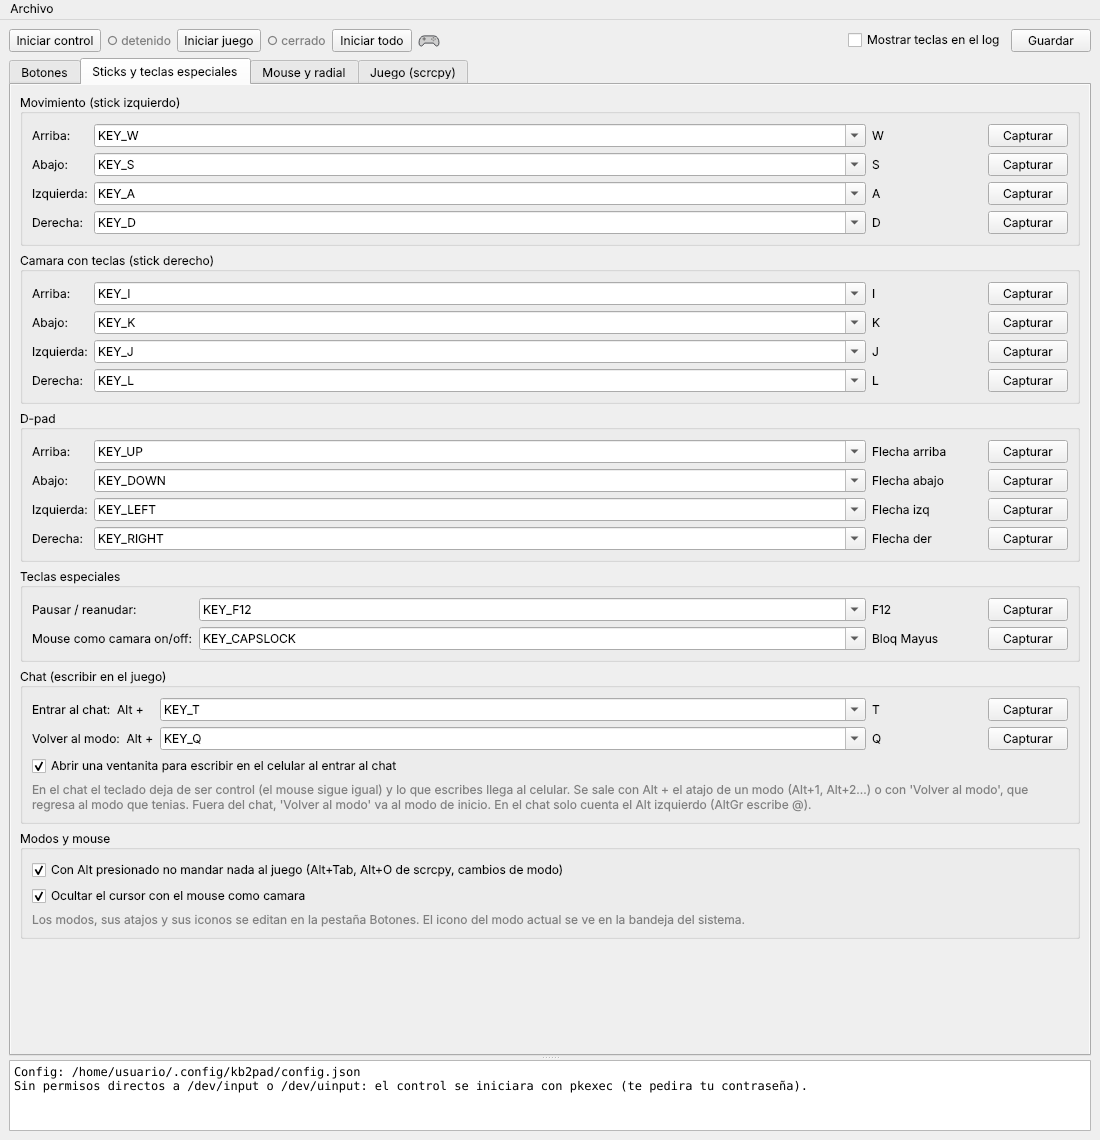
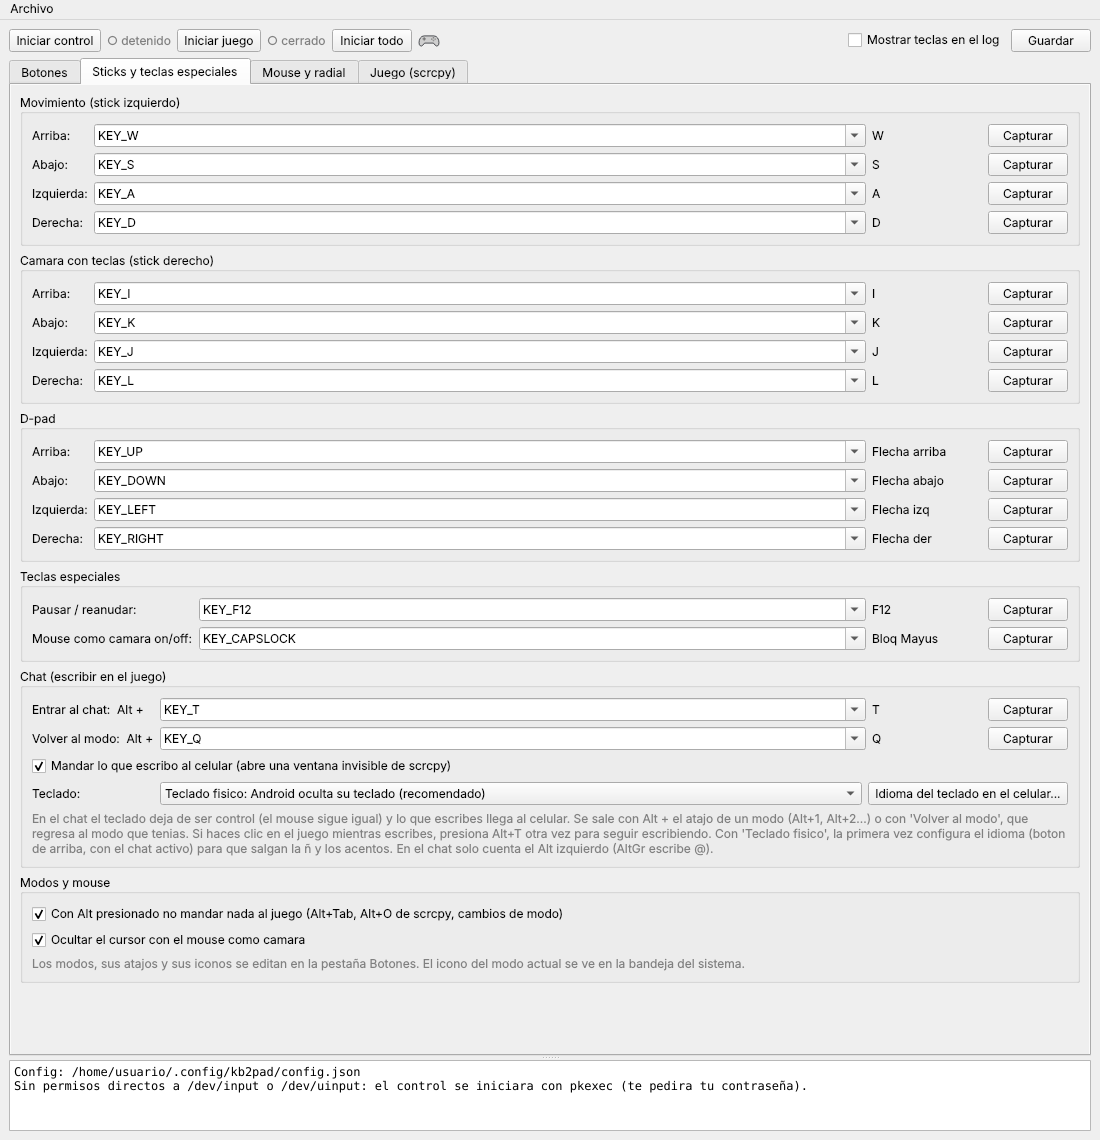
v0.2.1: el chat escribe como teclado fisico y Android ya no muestra su teclado
- La conexion del chat usa --keyboard=uhid: Android la ve como teclado fisico y oculta el teclado
  en pantalla (opcion para volver al teclado del celular).
- La ventanita del chat es de 8x8, sin bordes y transparente (WS_EX_LAYERED en Windows,
  _NET_WM_WINDOW_OPACITY en X11); solo recibe el teclado.
- Alt+T con el chat activo le regresa el foco (por si hiciste clic en el juego).
- Boton para abrir Ajustes > Teclado fisico en el celular y elegir el idioma (ñ y acentos).

Claude-Session: https://claude.ai/code/session_01Cy8nJGRSEieek9NBRKBXGJ

Changed region(s): [[0.0309, 0.6447, 0.9582, 0.8596], [0.5564, 0.7982, 0.68, 0.8596]]

diff --git a/app.py b/app.py
@@ -672,6 +672,7 @@ class BindingsTab(QWidget):
 
 class SticksTab(QWidget):
     changed = pyqtSignal()
+    keyboard_settings = pyqtSignal()
     DIRS = ("Arriba", "Abajo", "Izquierda", "Derecha")
 
     def __init__(self, parent=None):
@@ -706,17 +707,31 @@ class SticksTab(QWidget):
         form = QFormLayout(box)
         self.chat = KeyField(allow_empty=True)
         self.mode_back = KeyField(allow_empty=True)
-        self.chat_window = QCheckBox("Abrir una ventanita para escribir en el celular al entrar al chat")
+        self.chat_window = QCheckBox("Mandar lo que escribo al celular (abre una ventana invisible de scrcpy)")
+        self.chat_keyboard = QComboBox()
+        for key, label in C.CHAT_KEYBOARDS.items():
+            self.chat_keyboard.addItem(label, key)
+        kb_layout = QPushButton("Idioma del teclado en el celular...")
+        kb_layout.setToolTip("Abre en el celular Ajustes > Teclado fisico. Hazlo con el chat activo (Alt+T) "
+                             "y elige el teclado 'scrcpy' > Español (Latinoamerica) o el de tu teclado.")
+        kb_layout.clicked.connect(self.keyboard_settings.emit)
         for f in (self.chat, self.mode_back):
             f.changed.connect(self.changed.emit)
         self.chat_window.toggled.connect(self.changed.emit)
+        self.chat_keyboard.currentIndexChanged.connect(self.changed.emit)
         form.addRow("Entrar al chat:  Alt +", self.chat)
         form.addRow("Volver al modo:  Alt +", self.mode_back)
         form.addRow(self.chat_window)
+        row = QHBoxLayout()
+        row.addWidget(self.chat_keyboard, 1)
+        row.addWidget(kb_layout)
+        form.addRow("Teclado:", row)
         hint = QLabel("En el chat el teclado deja de ser control (el mouse sigue igual) y lo que escribes "
                       "llega al celular. Se sale con Alt + el atajo de un modo (Alt+1, Alt+2...) o con "
-                      "'Volver al modo', que regresa al modo que tenias. Fuera del chat, 'Volver al modo' "
-                      "va al modo de inicio. En el chat solo cuenta el Alt izquierdo (AltGr escribe @).")
+                      "'Volver al modo', que regresa al modo que tenias. Si haces clic en el juego mientras "
+                      "escribes, presiona Alt+T otra vez para seguir escribiendo. Con 'Teclado fisico', la "
+                      "primera vez configura el idioma (boton de arriba, con el chat activo) para que salgan "
+                      "la ñ y los acentos. En el chat solo cuenta el Alt izquierdo (AltGr escribe @).")
         hint.setWordWrap(True)
         hint.setStyleSheet("color: gray;")
         form.addRow(hint)
@@ -749,6 +764,7 @@ class SticksTab(QWidget):
         self.chat.set_value(sp.get("chat", ""))
         self.mode_back.set_value(sp.get("mode_back", ""))
         self.chat_window.setChecked(bool(sp.get("chat_window", True)))
+        self.chat_keyboard.setCurrentIndex(max(0, self.chat_keyboard.findData(sp.get("chat_keyboard", "uhid"))))
 
     def store(self, cfg):
         for key, fs in self.fields.items():
@@ -760,6 +776,7 @@ class SticksTab(QWidget):
         cfg["special"]["chat"] = self.chat.value()
         cfg["special"]["mode_back"] = self.mode_back.value()
         cfg["special"]["chat_window"] = self.chat_window.isChecked()
+        cfg["special"]["chat_keyboard"] = self.chat_keyboard.currentData() or "uhid"
 
 
 def _dspin(lo, hi, step, decimals=2, suffix=""):
@@ -1573,6 +1590,7 @@ class MainWindow(QMainWindow):
         for t in (self.t_bind, self.t_sticks, self.t_mouse, self.t_scrcpy):
             t.changed.connect(self.mark_dirty)
         self.t_scrcpy.log.connect(self.append_log)
+        self.t_sticks.keyboard_settings.connect(self.open_keyboard_settings)
 
         self.logbox = QPlainTextEdit()
         self.logbox.setReadOnly(True)
@@ -2108,29 +2126,52 @@ class MainWindow(QMainWindow):
             self.append_log("[chat] el teclado ya no es control; abre el juego para escribir en el celular")
             return
         if self.chat_proc.state() != QProcess.ProcessState.NotRunning:
+            self._refocus_chat()                   # Alt+T otra vez: seguir escribiendo
             return
         gx, gy, gw, gh = (PT.window_geometry(self.geo_wid) if self.geo_wid else None) or self._screen_rect()
-        cw, ch = min(720, max(360, gw // 2)), 110
-        window = (gx + (gw - cw) // 2, gy + gh - ch - max(40, gh // 8), cw, ch)
-        cmd = C.build_chat_cmd(sc, window)
+        window = (gx + gw - 8, gy + gh - 8, 8, 8)    # diminuta en la esquina; ademas se vuelve transparente
+        cmd = C.build_chat_cmd(sc, window, self.cfg["special"].get("chat_keyboard", "uhid"))
         env = QProcessEnvironment.systemEnvironment()
         for k, v in C.scrcpy_env_overrides(sc).items():
             env.insert(k, v)
         self.chat_proc.setProcessEnvironment(env)
-        self.append_log("[chat] abriendo ventana para escribir (Alt+1/2/3 o Alt+Q para volver)")
+        self.append_log("[chat] escribiendo en el celular (Alt+1/2/3 o Alt+Q para volver)")
         self.chat_proc.start(cmd[0], cmd[1:])
         self.chat_focus_until = time.monotonic() + 6
         self.chat_focus.start()
 
     def _chat_focus_tick(self):
         """Espera a que aparezca la ventanita del chat y le da el foco para escribir de inmediato."""
-        pid = self.chat_proc.processId()
-        wid = PT.find_window(pid) if pid else None
+        wid = self._chat_window()
         if wid is not None:
             self.chat_focus.stop()
+            PT.set_window_opacity(wid, 0.0)
             QTimer.singleShot(150, lambda: PT.focus_window(wid))
-        elif time.monotonic() > self.chat_focus_until or not pid:
+        elif time.monotonic() > self.chat_focus_until or not self.chat_proc.processId():
             self.chat_focus.stop()
+
+    def _chat_window(self):
+        pid = self.chat_proc.processId()
+        return PT.find_window(pid, min_size=1) if pid else None
+
+    def _refocus_chat(self):
+        wid = self._chat_window()
+        if wid is not None:
+            PT.focus_window(wid)
+
+    def open_keyboard_settings(self):
+        """Ajustes > Teclado fisico en el celular (para elegir el idioma del teclado 'scrcpy')."""
+        sc = self.collect()["scrcpy"]
+        if not C.tool_exists(sc, "adb"):
+            QMessageBox.warning(self, "adb", "No encontre adb.")
+            return
+        if self.chat_proc.state() == QProcess.ProcessState.NotRunning:
+            QMessageBox.information(self, "Teclado", "Primero entra al chat con Alt+T (con el juego abierto): "
+                                    "el teclado 'scrcpy' solo aparece en el celular mientras el chat esta activo.")
+        PT.spawn(PT.adb_cmd(C.tool_path(sc, "adb"), C.effective_serial(sc), "shell", "am", "start",
+                            "-a", "android.settings.HARD_KEYBOARD_SETTINGS"))
+        self.append_log("[chat] abriendo Ajustes > Teclado fisico en el celular: elige 'scrcpy' y el idioma "
+                        "de tu teclado (ej. Español (Latinoamerica))")
 
     def _close_chat(self, refocus=False):
         self.chat_focus.stop()

diff --git a/platform_tools.py b/platform_tools.py
@@ -165,6 +165,10 @@ if IS_WINDOWS:
     _u32.IsIconic.argtypes = (W.HWND,)
     _u32.ShowWindow.argtypes = (W.HWND, ctypes.c_int)
     _k32 = ctypes.WinDLL("kernel32", use_last_error=True)
+    _u32.GetWindowLongW.argtypes = (W.HWND, ctypes.c_int)
+    _u32.GetWindowLongW.restype = ctypes.c_long
+    _u32.SetWindowLongW.argtypes = (W.HWND, ctypes.c_int, ctypes.c_long)
+    _u32.SetLayeredWindowAttributes.argtypes = (W.HWND, W.DWORD, ctypes.c_ubyte, W.DWORD)
     SWP_NOZORDER, SWP_NOACTIVATE = 0x0004, 0x0010
 
     class _DpiUnaware:
@@ -191,7 +195,7 @@ if IS_WINDOWS:
             return None
         return r.left, r.top, r.right - r.left, r.bottom - r.top
 
-    def find_window(pid):
+    def find_window(pid, min_size=100):
         found = []
 
         def cb(hwnd, _lparam):
@@ -199,7 +203,7 @@ if IS_WINDOWS:
             _u32.GetWindowThreadProcessId(hwnd, ctypes.byref(p))
             if p.value == pid and _u32.IsWindowVisible(hwnd):
                 g = _rect(hwnd)
-                if g and g[2] > 100 and g[3] > 100:
+                if g and g[2] >= min_size and g[3] >= min_size:
                     found.append((g[2] * g[3], hwnd))
             return True
 
@@ -216,6 +220,14 @@ if IS_WINDOWS:
     def set_window_geometry(wid, x, y, w, h):
         with _DpiUnaware():
             _u32.SetWindowPos(wid, None, int(x), int(y), int(w), int(h), SWP_NOZORDER | SWP_NOACTIVATE)
+
+    def set_window_opacity(wid, value):
+        """0.0 = invisible (sigue pudiendo tener el foco del teclado), 1.0 = normal."""
+        if not wid or not _u32.IsWindow(wid):
+            return False
+        ex = _u32.GetWindowLongW(wid, -20)                       # GWL_EXSTYLE
+        _u32.SetWindowLongW(wid, -20, ex | 0x00080000)            # WS_EX_LAYERED
+        return bool(_u32.SetLayeredWindowAttributes(wid, 0, max(1, min(255, int(value * 255))), 2))
 
     def focus_window(wid):
         """Trae la ventana al frente con el foco del teclado (Windows no deja si no 'le toca':
@@ -247,13 +259,15 @@ else:
         except KeyError:
             return None
 
-    def find_window(pid):
+    def find_window(pid, min_size=100):
         best = None
-        for line in _xdotool("search", "--pid", str(pid)).split():
+        # ventanas chicas (el chat): solo las visibles, SDL tiene ventanas auxiliares sin mapear
+        extra = ["--onlyvisible"] if min_size < 100 else []
+        for line in _xdotool("search", *extra, "--pid", str(pid)).split():
             if not line.isdigit():
                 continue
             g = window_geometry(line)
-            if g and g[2] > 100 and g[3] > 100:
+            if g and g[2] >= min_size and g[3] >= min_size:
                 if best is None or g[2] * g[3] > best[1]:
                     best = (line, g[2] * g[3])
         return best[0] if best else None
@@ -266,4 +280,33 @@ else:
         if not wid or not shutil.which("xdotool"):
             return False
         _xdotool("windowactivate", str(wid))
+        return True
+
+    def set_window_opacity(wid, value):
+        """_NET_WM_WINDOW_OPACITY (KWin y otros compositores) con libX11 por ctypes."""
+        if not wid:
+            return False
+        import ctypes
+        import ctypes.util
+        try:
+            x11 = ctypes.CDLL(ctypes.util.find_library("X11") or "libX11.so.6")
+        except OSError:
+            return False
+        x11.XOpenDisplay.restype = ctypes.c_void_p
+        x11.XOpenDisplay.argtypes = (ctypes.c_char_p,)
+        x11.XInternAtom.restype = ctypes.c_ulong
+        x11.XInternAtom.argtypes = (ctypes.c_void_p, ctypes.c_char_p, ctypes.c_int)
+        x11.XChangeProperty.argtypes = (ctypes.c_void_p, ctypes.c_ulong, ctypes.c_ulong, ctypes.c_ulong,
+                                        ctypes.c_int, ctypes.c_int, ctypes.c_void_p, ctypes.c_int)
+        x11.XFlush.argtypes = x11.XCloseDisplay.argtypes = (ctypes.c_void_p,)
+        dpy = x11.XOpenDisplay(None)
+        if not dpy:
+            return False
+        try:
+            atom = x11.XInternAtom(dpy, b"_NET_WM_WINDOW_OPACITY", 0)
+            val = ctypes.c_ulong(max(1, int(value * 0xFFFFFFFF)))   # formato 32 = long en Xlib
+            x11.XChangeProperty(dpy, int(wid), atom, 6, 32, 0, ctypes.byref(val), 1)   # CARDINAL, Replace
+            x11.XFlush(dpy)
+        finally:
+            x11.XCloseDisplay(dpy)
         return True

diff --git a/config.py b/config.py
@@ -17,7 +17,7 @@ from keycodes import e
 
 IS_WINDOWS = os.name == "nt"
 APP_NAME = "kb2pad-dock"
-APP_VERSION = "0.2.0"
+APP_VERSION = "0.2.1"
 
 if IS_WINDOWS:
     CONFIG_DIR = Path(os.environ.get("APPDATA") or Path.home()) / "kb2pad"
@@ -247,7 +247,8 @@ DEFAULT_CONFIG = {
         "hide_cursor": True,         # ocultar el cursor con el mouse como camara
         "chat": "KEY_T",             # Alt + T: modo chat (el teclado deja de ser control)
         "mode_back": "KEY_Q",        # Alt + Q: sale del chat al modo que tenias (fuera del chat: modo de inicio)
-        "chat_window": True,         # al entrar al chat abre una ventanita de scrcpy para escribir
+        "chat_window": True,         # al entrar al chat abre una ventanita (invisible) de scrcpy para escribir
+        "chat_keyboard": "uhid",     # uhid = teclado fisico (Android oculta su teclado); sdk = teclado del cel
     },
     "sticks": {   # (arriba, abajo, izquierda, derecha)
         "move": ["KEY_W", "KEY_S", "KEY_A", "KEY_D"],
@@ -616,17 +617,21 @@ def build_scrcpy_cmd(sc, window=None, version=None):
     return cmd + extra
 
 
-CHAT_TITLE = "kb2pad - chat (escribe aqui; Alt+1/2/3 o Alt+Q para volver al juego)"
+CHAT_TITLE = "kb2pad-chat"
+CHAT_KEYBOARDS = {"uhid": "Teclado fisico: Android oculta su teclado (recomendado)",
+                  "sdk": "Teclado del celular en pantalla"}
 
 
-def build_chat_cmd(sc, window=None):
-    """Segunda ventana de scrcpy solo con teclado (sin video ni audio) para escribir en el chat."""
+def build_chat_cmd(sc, window=None, keyboard="uhid"):
+    """Segunda ventana de scrcpy solo con teclado (sin video ni audio) para escribir en el chat.
+    La ventana es diminuta y la GUI la vuelve transparente: solo esta para recibir el teclado."""
     cmd = [tool_path(sc, "scrcpy")]
     serial = effective_serial(sc)
     if serial:
         cmd += ["-s", serial]
-    cmd += ["--no-video", "--no-audio", "--keyboard=sdk", "--mouse=disabled",
-            "--always-on-top", f"--window-title={CHAT_TITLE}"]
+    keyboard = keyboard if keyboard in CHAT_KEYBOARDS else "uhid"
+    cmd += ["--no-video", "--no-audio", f"--keyboard={keyboard}", "--mouse=disabled",
+            "--window-borderless", "--always-on-top", f"--window-title={CHAT_TITLE}"]
     if window is not None:
         x, y, w, h = (int(v) for v in window)
         cmd += [f"--window-x={x}", f"--window-y={y}", f"--window-width={w}", f"--window-height={h}"]

diff --git a/core.py b/core.py
@@ -434,7 +434,10 @@ class Mapper:
         if ev.value == 1 and ev.code not in cfg.alt_keys and any(a in self.pressed for a in alts):
             if ev.code == cfg.chat_key:
                 self.consumed.add(ev.code)
-                self.set_chat(not self.chat)
+                if self.chat:
+                    log("Chat: ON")        # ya estaba: la GUI le regresa el foco a la ventanita
+                else:
+                    self.set_chat(True)
                 return
             if ev.code == cfg.back_key:
                 self.consumed.add(ev.code)

diff --git a/docs/guia-windows.md b/docs/guia-windows.md
@@ -32,7 +32,7 @@ carga) y un juego que acepte control.
 
 1. **Descarga kb2pad-dock.**
    En [Releases](https://github.com/cHeRaZ-edu/kb2pad-dock/releases) baja
-   `kb2pad-dock-v0.2.0-windows-x64.zip` y **descomprímelo** (por ejemplo en `C:\kb2pad-dock`).
+   `kb2pad-dock-v0.2.1-windows-x64.zip` y **descomprímelo** (por ejemplo en `C:\kb2pad-dock`).
    No lo abras desde dentro del zip.
 2. **Descarga scrcpy.**
    En [scrcpy Releases](https://github.com/Genymobile/scrcpy/releases) baja el zip
@@ -83,10 +83,14 @@ Cualquier cambio que guardes se aplica al momento, aunque el control esté corri
 4. **F12** pausa kb2pad. Úsalo cuando vayas a escribir en otra ventana, porque kb2pad lee el
    teclado aunque la ventana del juego no tenga el foco. `Alt + Tab` no manda nada al juego.
 5. **Chat**: abre el chat en el juego y presiona **Alt + T**. El icono de la bandeja cambia a un
-   teclado y se abre una ventanita *kb2pad - chat*: lo que escribes ahí llega al celular (con
-   acentos y `ñ`) y las letras ya no disparan botones; el mouse sigue funcionando. Para volver:
-   **Alt + 1/2/3** o **Alt + Q** (regresa al modo que tenías). Si la ventanita no toma el foco
-   sola, haz clic en ella. En el chat solo cuenta el Alt izquierdo (`AltGr + Q` escribe `@`).
+   teclado: lo que escribes llega al celular y las letras ya no disparan botones; el mouse sigue
+   funcionando. Android no saca su teclado en pantalla porque kb2pad se conecta como teclado
+   físico. Para volver: **Alt + 1/2/3** o **Alt + Q** (regresa al modo que tenías).
+   - **La primera vez**, con el chat activo, pulsa **Idioma del teclado en el celular...** en
+     *Sticks y teclas especiales* y en el celular elige el teclado **scrcpy** → *Español
+     (Latinoamérica)*, para que salgan la `ñ` y los acentos.
+   - Si haces clic en el juego mientras escribes, presiona **Alt + T** otra vez para seguir.
+   - En el chat solo cuenta el Alt izquierdo (`AltGr + Q` escribe `@`).
 
 **Modos por arma**: cambia en plena partida con **Alt + 1** (Espada), **Alt + 2** (Ballesta)
 o **Alt + 3** (Arco). El icono del modo actual (espada, ballesta o arco) se ve en la bandeja del
@@ -151,7 +155,8 @@ Windows pregunta por el firewall al conectar, permite el acceso a `adb.exe` en r
 | El log de scrcpy dice `INJECT_EVENTS` | Xiaomi/POCO/Redmi: activa *Depuración USB (Configuración de seguridad)* y reinicia el celular. |
 | El juego no reacciona al teclado | Revisa que el control esté **activo** (no en pausa con F12) y que el juego muestre íconos de control. scrcpy debe ser 2.7 o más reciente. |
 | Los botones laterales del mouse no hacen nada | Activa *Mostrar teclas en el log*, presiónalos y mira qué código aparece. Asígnalo en la pestaña Botones con *Capturar*. |
-| Con Alt + T no se abre la ventanita del chat | Tiene que estar abierta la ventana del juego. Revisa que *Abrir una ventanita para escribir* esté activado en *Sticks y teclas especiales*. |
+| En el chat no se escribe nada | Tiene que estar abierta la ventana del juego y activado *Mandar lo que escribo al celular* en *Sticks y teclas especiales*. Si hiciste clic en el juego, presiona Alt + T otra vez. |
+| En el chat salen símbolos en vez de `ñ` o acentos | Falta el idioma del teclado *scrcpy* en el celular: botón *Idioma del teclado en el celular...* con el chat activo. |
 | En red no conecta | Celular y PC en la misma red. Si el celular se reinició, conecta el cable y usa *Activar red con el cable* otra vez. |
 | La ventana no queda donde esperas | Si tu Windows tiene escalado distinto de 100 %, ajusta X, Y, Ancho y Alto a mano en la pestaña Juego. |
 | SmartScreen o el antivirus bloquean `kb2pad.exe` | El `.exe` no está firmado y usa hooks de teclado para leer las teclas. Puedes revisar el código en este repo o compilarlo tú mismo (ver el README). |

diff --git a/docs/guia-linux.md b/docs/guia-linux.md
@@ -45,10 +45,10 @@ control.
 
 2. **Descarga kb2pad-dock.**
    En [Releases](https://github.com/cHeRaZ-edu/kb2pad-dock/releases) baja
-   `kb2pad-dock-v0.2.0-linux.tar.gz` y descomprímelo:
+   `kb2pad-dock-v0.2.1-linux.tar.gz` y descomprímelo:
    ```fish
    mkdir -p ~/Apps
-   tar xzf ~/Descargas/kb2pad-dock-v0.2.0-linux.tar.gz -C ~/Apps
+   tar xzf ~/Descargas/kb2pad-dock-v0.2.1-linux.tar.gz -C ~/Apps
    ```
    O clona el repo:
    ```fish
@@ -116,10 +116,14 @@ puedes editar `~/.config/kb2pad/config.json` a mano: el control detecta el cambi
    teclado aunque la ventana del juego no tenga el foco. `Alt + Tab` no manda nada al juego.
 
 5. **Chat**: abre el chat en el juego y presiona **Alt + T**. El icono de la bandeja cambia a un
-   teclado y se abre una ventanita *kb2pad - chat*: lo que escribes ahí llega al celular (con
-   acentos y `ñ`) y las letras ya no disparan botones; el mouse sigue funcionando. Para volver:
-   **Alt + 1/2/3** o **Alt + Q** (regresa al modo que tenías). Si la ventanita no toma el foco
-   sola, haz clic en ella. En el chat solo cuenta el Alt izquierdo (`AltGr + Q` escribe `@`).
+   teclado: lo que escribes llega al celular y las letras ya no disparan botones; el mouse sigue
+   funcionando. Android no saca su teclado en pantalla porque kb2pad se conecta como teclado
+   físico. Para volver: **Alt + 1/2/3** o **Alt + Q** (regresa al modo que tenías).
+   - **La primera vez**, con el chat activo, pulsa **Idioma del teclado en el celular...** en
+     *Sticks y teclas especiales* y en el celular elige el teclado **scrcpy** → *Español
+     (Latinoamérica)*, para que salgan la `ñ` y los acentos.
+   - Si haces clic en el juego mientras escribes, presiona **Alt + T** otra vez para seguir.
+   - En el chat solo cuenta el Alt izquierdo (`AltGr + Q` escribe `@`).
 
 **Wayland:** para poder acomodar la ventana, la app abre scrcpy con X11 (XWayland) mientras *Al
 pasar a horizontal* no esté en *No tocar la ventana*. Necesitas `xdotool`. Si aun así no respeta
@@ -202,5 +206,6 @@ sudo python ~/Apps/kb2pad-dock/engine.py --config ~/.config/kb2pad/config.json -
 | El juego no reacciona al teclado | Revisa que el control esté **activo** (no en pausa con F12) y que el juego muestre íconos de control. scrcpy debe ser 2.7 o más reciente. |
 | Los botones laterales del mouse no hacen nada | Activa *Mostrar teclas en el log*, presiónalos y mira qué código aparece. Asígnalo en la pestaña Botones con *Capturar*. |
 | "No encontré la ventana de scrcpy" en el log | Instala `xdotool` y, en Wayland, activa *Forzar X11*. |
-| Con Alt + T no se abre la ventanita del chat | Tiene que estar abierta la ventana del juego. Revisa que *Abrir una ventanita para escribir* esté activado en *Sticks y teclas especiales*. |
+| En el chat no se escribe nada | Tiene que estar abierta la ventana del juego y activado *Mandar lo que escribo al celular* en *Sticks y teclas especiales*. Si hiciste clic en el juego, presiona Alt + T otra vez. |
+| En el chat salen símbolos en vez de `ñ` o acentos | Falta el idioma del teclado *scrcpy* en el celular: botón *Idioma del teclado en el celular...* con el chat activo. |
 | En red no conecta | Celular y PC en la misma red. Si el celular se reinició, conecta el cable y usa *Activar red con el cable* otra vez. |

diff --git a/README.md b/README.md
@@ -100,8 +100,8 @@ En **[Releases](https://github.com/cHeRaZ-edu/kb2pad-dock/releases)**:
 
 | Archivo | Para |
 |---|---|
-| `kb2pad-dock-v0.2.0-windows-x64.zip` | Windows 10/11 de 64 bits: trae `kb2pad.exe`, no necesitas Python |
-| `kb2pad-dock-v0.2.0-linux.tar.gz` | Linux: el código, se corre con Python |
+| `kb2pad-dock-v0.2.1-windows-x64.zip` | Windows 10/11 de 64 bits: trae `kb2pad.exe`, no necesitas Python |
+| `kb2pad-dock-v0.2.1-linux.tar.gz` | Linux: el código, se corre con Python |
 
 ## Guías paso a paso
 
@@ -188,14 +188,21 @@ valores por defecto (las teclas que no se usan en combate son iguales en las tre
 Para escribir en el chat del juego sin que las letras disparen botones:
 
 1. Abre el chat en el juego (con el mouse o con su botón).
-2. Presiona **`Alt + T`**. El icono de la bandeja cambia a un **teclado** y se abre una ventanita
-   de scrcpy con el título *kb2pad - chat*: lo que escribes ahí llega al celular (acentos y `ñ`
-   incluidos). El mouse sigue funcionando como control.
-3. Para volver a jugar: **`Alt + 1/2/3`** (ese modo) o **`Alt + Q`** (el modo que tenías). La
-   ventanita se cierra sola.
+2. Presiona **`Alt + T`**. El icono de la bandeja cambia a un **teclado** y lo que escribes llega
+   al celular. El mouse sigue funcionando como control.
+3. Para volver a jugar: **`Alt + 1/2/3`** (ese modo) o **`Alt + Q`** (el modo que tenías).
 
-En el chat solo cuenta el **Alt izquierdo**, porque `AltGr + Q` escribe `@`. Los atajos se cambian
-en *Sticks y teclas especiales*.
+Por dentro, kb2pad abre una segunda conexión de scrcpy, solo de teclado, en una ventana invisible
+que toma el foco. Esa conexión se presenta en el celular como un **teclado físico**, así que
+Android **no muestra su teclado en pantalla** y el juego queda despejado.
+
+- **La primera vez**, configura el idioma de ese teclado para que salgan la `ñ` y los acentos:
+  entra al chat (`Alt + T`) y en *Sticks y teclas especiales* pulsa **Idioma del teclado en el
+  celular...**. En el celular elige el teclado **scrcpy** → *Español (Latinoamérica)* (o el de tu
+  teclado). Se queda guardado.
+- Si haces clic en el juego mientras escribes, vuelve a presionar `Alt + T` para seguir escribiendo.
+- Si prefieres el teclado del celular en pantalla, cámbialo en *Teclado* (misma pestaña).
+- En el chat solo cuenta el **Alt izquierdo**, porque `AltGr + Q` escribe `@`.
 
 ## Iniciar el juego
 
